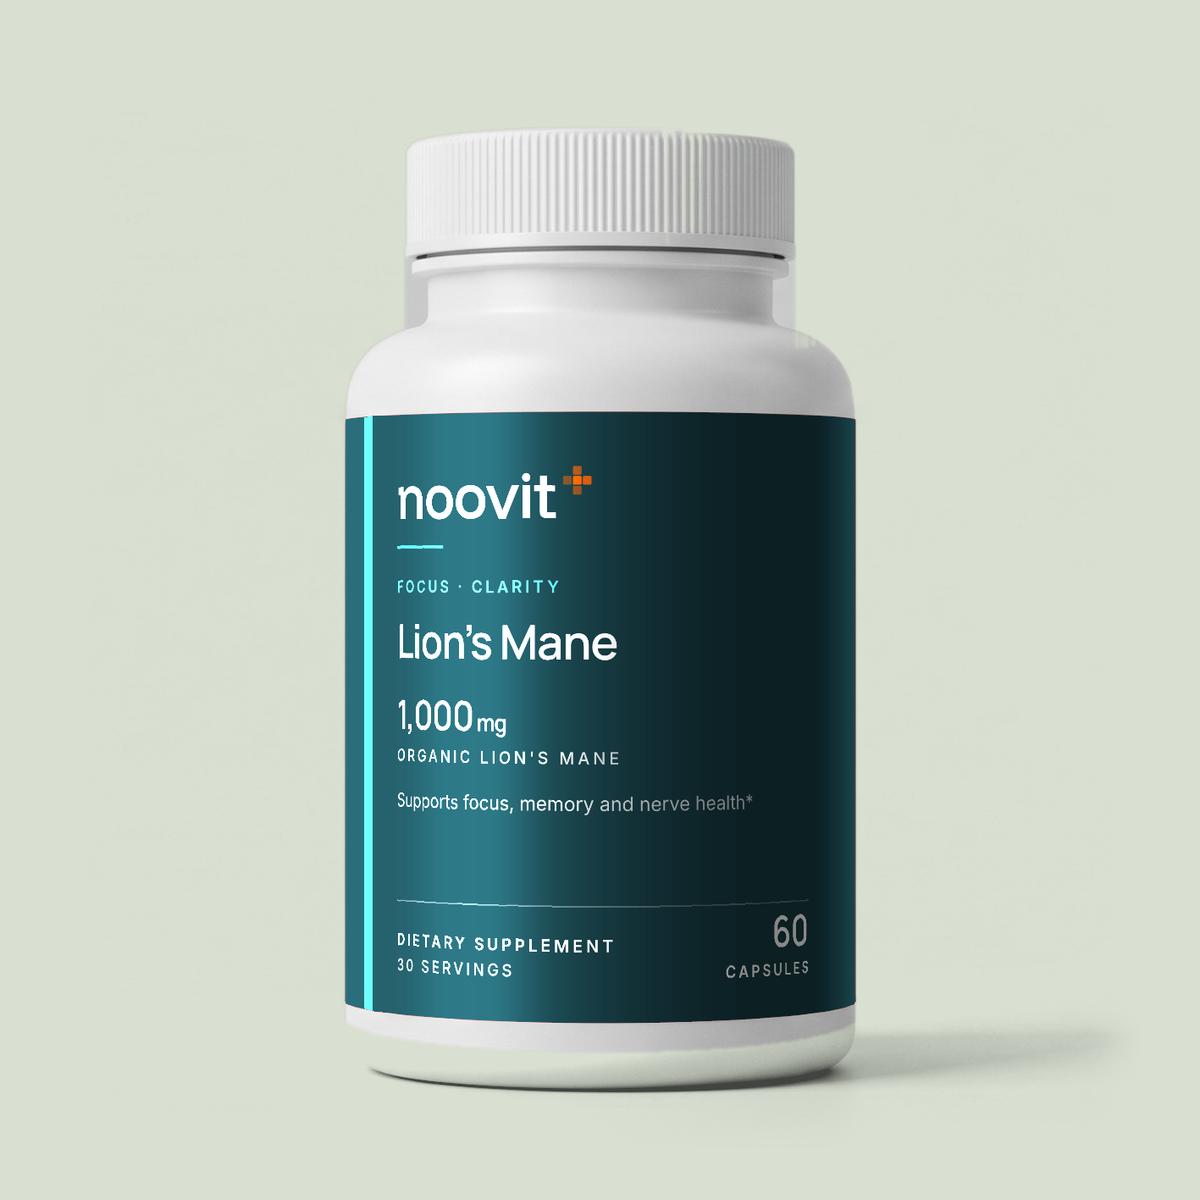
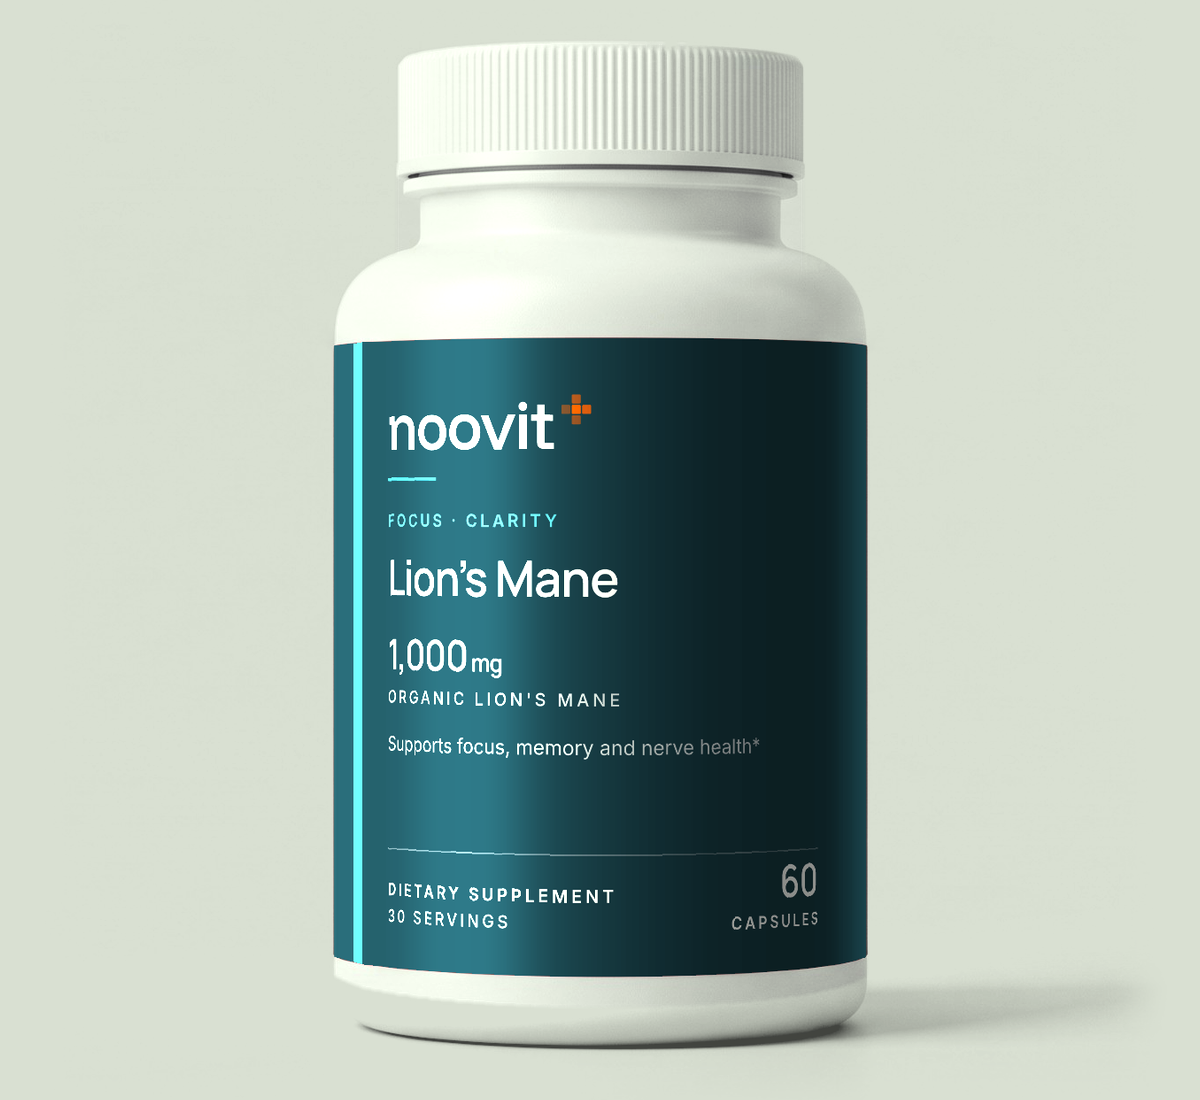
Warm bottle whites, sage hero, smaller H1, bigger Lion's Mane highlight, powders on the studio bottle, energetic sports photos, no reviews placeholder note, taller newsletter photo
Claude-Session: https://claude.ai/code/session_01AgHwmMXyw3TzvCrzNnVa8R

Changed region(s): [[0.2775, 0.0309, 0.8942, 0.9582]]

diff --git a/app/(store)/page.tsx b/app/(store)/page.tsx
@@ -67,11 +67,11 @@ export default async function HomePage() {
       <JsonLd data={{ '@context': 'https://schema.org', '@type': 'Organization', name: 'Noovit', legalName: LEGAL_NAME, url: SITE_URL, address: { '@type': 'PostalAddress', streetAddress: '30 N Gould St Ste R', addressLocality: 'Sheridan', addressRegion: 'WY', postalCode: '82801', addressCountry: 'US' } }} />
       {/* Hero: one full-bleed studio scene. The copy sits on the same grey backdrop as the bottles
           (public/images/lineup-hero.png, scripts/site-images.ts), so there is no card edge. */}
-      <section className="relative overflow-hidden bg-[var(--studio)]">
+      <section className="relative overflow-hidden bg-[var(--sage)]">
         <div className="container grid items-center gap-2 px-6 md:grid-cols-[1fr_1fr] md:gap-6">
           <div className="relative z-10 pt-14 md:py-24">
             {content.hero_badge && <p className="mb-5 text-xs font-semibold uppercase tracking-[0.22em] text-[var(--color-navy)]/70">{brandify(content.hero_badge)}</p>}
-            <h1 className="text-balance text-5xl leading-[1.02] text-[var(--color-navy)] md:text-6xl xl:text-7xl">{brandify(content.hero_headline)}</h1>
+            <h1 className="text-balance text-[2.55rem] leading-[1.04] text-[var(--color-navy)] md:text-[3.2rem] xl:text-[3.83rem]">{brandify(content.hero_headline)}</h1>
             {content.hero_subheadline && <p className="mt-6 max-w-lg text-lg text-[var(--color-ink)]/80 md:text-xl">{brandify(content.hero_subheadline)}</p>}
             <div className="mt-9 flex flex-wrap gap-3">
               <Link href={safeLink(content.hero_cta_link) || '/shop'} className="btn btn-primary">{content.hero_cta_label || 'Shop the range'}</Link>
@@ -84,7 +84,7 @@ export default async function HomePage() {
             </ul>
           </div>
           <Link href="/shop" aria-label="Shop the range" className="block">
-            <img src="/images/lineup-hero.png?v=2" alt="Noovit Magnesium Sleep+, Lion's Mane and Ashwagandha Calm+ bottles" className="w-full" fetchPriority="high" />
+            <img src="/images/lineup-hero.png?v=3" alt="Noovit Magnesium Sleep+, Lion's Mane and Ashwagandha Calm+ bottles" className="w-full" fetchPriority="high" />
           </Link>
         </div>
       </section>
@@ -141,8 +141,8 @@ export default async function HomePage() {
                     Shop {hl.name} · ${hl.basePrice} <ArrowRight className="h-4 w-4 transition-transform group-hover:translate-x-1" />
                   </span>
                 </div>
-                <div className="relative mt-auto min-h-[280px] flex-1 md:min-h-[340px]">
-                  <img src="/images/feature-lions-mane.png?v=2" alt={`${hl.name} bottle`} className="absolute inset-0 h-full w-full object-contain object-bottom transition-transform duration-700 group-hover:scale-[1.03]" loading="lazy" />
+                <div className="relative mt-auto min-h-[340px] flex-1 md:min-h-[420px]">
+                  <img src="/images/feature-lions-mane.png?v=3" alt={`${hl.name} bottle`} className="absolute inset-0 h-full w-full object-contain object-bottom transition-transform duration-700 group-hover:scale-[1.03]" loading="lazy" />
                 </div>
               </Link>
               <div className="flex flex-col justify-between rounded-[2rem] bg-[var(--color-navy)] p-8 text-white">
@@ -276,7 +276,7 @@ export default async function HomePage() {
       {/* Approach */}
       <section className="section">
         <div className="container grid items-center gap-12 px-6 md:grid-cols-2">
-          <img src={IMAGES.womanLift} srcSet={unsplashSrcSet(IMAGES.womanLift)} sizes="(min-width: 768px) 50vw, 100vw" alt="A woman lifting a barbell in a gym" className="aspect-[16/11] w-full rounded-3xl object-cover" loading="lazy" />
+          <img src={IMAGES.womanTrain} srcSet={unsplashSrcSet(IMAGES.womanTrain)} sizes="(min-width: 768px) 50vw, 100vw" alt="A woman training with a dumbbell in a gym" className="aspect-[16/11] w-full rounded-3xl object-cover" loading="lazy" />
           <div>
             <SectionHeading eyebrow="Our approach" title="Evidence-led, and honest about it" center={false} />
             <div className="space-y-6">

diff --git a/components/sections/Sections.tsx b/components/sections/Sections.tsx
@@ -9,7 +9,6 @@ import { IMAGES, SUBSCRIPTION_PERKS } from '@/data/content';
 import { Stars } from '@/components/ui/Stars';
 import { SocialLinks } from '@/components/layout/Footer';
 import { brandify } from '@/components/brand/Brand';
-import { PlaceholderNote } from '@/components/ui/Placeholder';
 import { trackSignup } from '@/lib/analytics';
 
 export function SectionHeading({ eyebrow, title, sub, center = true }: { eyebrow?: string; title: string; sub?: string; center?: boolean }) {
@@ -59,17 +58,14 @@ export function TrustSection() {
 }
 
 // Real, approved reviews only (see lib/reviews.ts); renders nothing until there are some.
+// eslint-disable-next-line @typescript-eslint/no-unused-vars
 export function ReviewsSection({ title = 'What customers say', reviews, placeholder = false }: { title?: string; reviews: Review[]; placeholder?: boolean }) {
   if (!reviews.length) return null;
   return (
     <section className="section">
       <div className="container px-6">
         <SectionHeading eyebrow="Reviews" title={title} />
-        {placeholder && (
-          <PlaceholderNote className="mb-6">
-            Example reviews showing where real ones will go. Collect them from customers (Admin → Reviews approves them); they replace these automatically.
-          </PlaceholderNote>
-        )}
+        {/* Owner (18 Nov): no orange note. Example reviews still disappear when Settings → Show placeholders is "off". */}
         <div className="no-scrollbar -mx-6 flex snap-x gap-5 overflow-x-auto px-6 pb-2">
           {reviews.map((r) => {
             return (
@@ -169,7 +165,7 @@ export function NewsletterSection() {
     <section className="section">
       <div className="container px-6">
         <div className="grid overflow-hidden rounded-3xl bg-[var(--color-navy)] text-white md:grid-cols-2">
-          <div className="p-10 md:p-14">
+          <div className="p-10 md:px-14 md:py-[66px]">
             <p className="mb-2 text-xs font-bold uppercase tracking-[0.2em] text-[var(--color-accent-light)]">Newsletter</p>
             <h2 className="text-3xl text-white md:text-4xl">10% off your first order</h2>
             <p className="mt-3 text-white/70">Sign up for nutrition tips, early access to launches, and member-only offers.</p>
@@ -210,7 +206,7 @@ export function NewsletterSection() {
           </div>
           {/* Absolutely positioned, so the photo fills the text's height instead of stretching the block (owner: shorter). */}
           <div className="relative hidden md:block">
-            <img src={IMAGES.sport} alt="A sprinter on a track in golden light" className="absolute inset-0 h-full w-full object-cover" loading="lazy" />
+            <img src={IMAGES.sport} alt="A sprinter on a track in golden light" className="absolute inset-0 h-full w-full object-cover object-[center_30%]" loading="lazy" />
           </div>
         </div>
       </div>

diff --git a/lib/labels/studio.ts b/lib/labels/studio.ts
@@ -197,6 +197,19 @@ export async function studioPhotoRaw(p: Product) {
   return { data: out, width: t.W, height: t.H, box: { x0: t.x0, x1: t.x1 } };
 }
 
+// The template was shot on cool grey, so its white plastic reads grey on a warm backdrop. Neutral, light pixels
+// (cap, shoulders, base) take the backdrop's light: scaled by backdrop / studio grey, weighted by how neutral and how
+// light they are, so the coloured label is untouched.
+const STUDIO_GREY = 202;
+function warm(r: number, g: number, b: number, bg: [number, number, number]): [number, number, number] {
+  const mx = Math.max(r, g, b), mn = Math.min(r, g, b);
+  const sat = mx ? (mx - mn) / mx : 0;
+  const lum = 0.299 * r + 0.587 * g + 0.114 * b;
+  const w = Math.max(0, 1 - sat * 4) * Math.min(1, Math.max(0, (lum - 110) / 60)) * 0.85;
+  const f = (c: number, k: number) => Math.min(255, c * (1 + (bg[k] / STUDIO_GREY - 1) * w));
+  return [f(r, 0), f(g, 1), f(b, 2)];
+}
+
 // The labelled photo placed on any backdrop colour: the bottle keeps its true colours (mask), and the backdrop takes
 // the photo's shadow and soft light as a brightness ratio against the empty studio, so it looks photographed there.
 export async function studioOnBackdrop(p: Product, bg: [number, number, number] = BACKDROP) {
@@ -208,7 +221,8 @@ export async function studioOnBackdrop(p: Product, bg: [number, number, number] 
     const lp = 0.299 * t.plate[k] + 0.587 * t.plate[k + 1] + 0.114 * t.plate[k + 2];
     const li = 0.299 * r.data[k] + 0.587 * r.data[k + 1] + 0.114 * r.data[k + 2];
     const shade = Math.max(0.3, Math.min(1, li / lp));
-    for (let c = 0; c < 3; c++) out[k + c] = Math.round(a * r.data[k + c] + (1 - a) * bg[c] * shade);
+    const wm = warm(r.data[k], r.data[k + 1], r.data[k + 2], bg);
+    for (let c = 0; c < 3; c++) out[k + c] = Math.round(a * wm[c] + (1 - a) * bg[c] * shade);
   }
   return { ...r, data: out };
 }
@@ -274,7 +288,8 @@ export async function studioGroupPng(products: Product[], width: number, height:
         const e = Math.min(xx, opts.size - 1 - xx, yy, opts.size - 1 - yy) / (opts.size * 0.06);
         const w = e >= 1 ? 1 : e * e * (3 - 2 * e);
         const shade = 1 - (1 - sh.data[m * sh.ch] / 255) * w;
-        for (let c = 0; c < 3; c++) canvas[di + c] = a * px.data[m * px.ch + c] + (1 - a) * canvas[di + c] * shade;
+        const wm = warm(px.data[m * px.ch], px.data[m * px.ch + 1], px.data[m * px.ch + 2], opts.bg);
+        for (let c = 0; c < 3; c++) canvas[di + c] = a * wm[c] + (1 - a) * canvas[di + c] * shade;
       }
     }
   }

diff --git a/data/content.ts b/data/content.ts
@@ -6,11 +6,11 @@ export const IMAGES = {
   // Sports lifestyle (Unsplash License, free): sprinter by Jorge Alberto Vega Barrera; runner by Sherise Van Dyk.
   sport: 'https://images.unsplash.com/photo-1744060204728-f68e434a3edf?w=1200&q=80&fit=crop',
   run: 'https://images.unsplash.com/photo-1560073742-bc295f81c3c0?w=1200&q=80&fit=crop',
-  // More sports photos, Unsplash License: Cristian Londono (barbell), Land O'Lakes Inc. (gym, track), Ryan Fleischer (winter run).
-  womanLift: 'https://images.unsplash.com/photo-1639660299469-9e9279364c97?w=1200&q=80&fit=crop',
-  womanGym: 'https://images.unsplash.com/photo-1761839258420-5c3e2f2e2a74?w=1200&q=80&fit=crop',
+  // More sports photos, Unsplash License: Alora Griffiths (woman training), Ryan Fleischer (winter run), Sage Friedman (trail run).
+  // Owner (18 Nov): fit, energetic people only, never tired, resting or unflattering shots.
+  womanTrain: 'https://images.unsplash.com/photo-1532384748853-8f54a8f476e2?w=1200&q=80&fit=crop',
   womanRun: 'https://images.unsplash.com/photo-1765250251997-daf44e3c0268?w=1200&q=80&fit=crop',
-  track: 'https://images.unsplash.com/photo-1761839257789-20147513121a?w=1200&q=80&fit=crop',
+  trailRun: 'https://images.unsplash.com/photo-1522040942177-269680274214?w=1200&q=80&fit=crop',
   hero: 'https://images.unsplash.com/photo-1552196563-55cd4e45efb3?w=1920&q=80&fit=crop',
   approach: 'https://images.unsplash.com/photo-1540420773420-3366772f4999?w=1200&q=80&fit=crop',
   nutrition: 'https://images.unsplash.com/photo-1490645935967-10de6ba17061?w=800&q=80&fit=crop',
@@ -19,11 +19,11 @@ export const IMAGES = {
   results: 'https://images.unsplash.com/photo-1517836357463-d25dfeac3438?w=800&q=80&fit=crop',
   // Sports people, women and men (all Unsplash License, see above).
   community: [
-    'https://images.unsplash.com/photo-1639660299469-9e9279364c97?w=600&h=600&q=80&fit=crop',
+    'https://images.unsplash.com/photo-1532384748853-8f54a8f476e2?w=600&h=600&q=80&fit=crop',
     'https://images.unsplash.com/photo-1560073742-bc295f81c3c0?w=600&h=600&q=80&fit=crop',
     'https://images.unsplash.com/photo-1765250251997-daf44e3c0268?w=600&h=600&q=80&fit=crop',
     'https://images.unsplash.com/photo-1744060204728-f68e434a3edf?w=600&h=600&q=80&fit=crop',
-    'https://images.unsplash.com/photo-1761839258420-5c3e2f2e2a74?w=600&h=600&q=80&fit=crop',
+    'https://images.unsplash.com/photo-1522040942177-269680274214?w=600&h=600&q=80&fit=crop',
   ],
 };
 

diff --git a/scripts/site-images.ts b/scripts/site-images.ts
@@ -15,12 +15,12 @@ const P = (s: string) => SEED_PRODUCTS.find((p) => p.slug === s)!;
   const five = await studioGroupPng(['magnesium-complex', 'ashwagandha', 'lions-mane', 'coq10', 'turmeric-complex'].map(P), 1600, 1200, { size: 560, step: 300, y: 330, bg });
   writeFileSync('public/images/lineup-5.png', five);
   // Hero: three bottles, wide, for the full-bleed homepage hero (text sits on the same backdrop to the left).
-  const hero = await studioGroupPng(['magnesium-complex', 'lions-mane', 'ashwagandha'].map(P), 1500, 1200, { size: 860, step: 470, y: 230, bg });
+  const hero = await studioGroupPng(['magnesium-complex', 'lions-mane', 'ashwagandha'].map(P), 1500, 1200, { size: 860, step: 470, y: 230, bg: [...SAGE] as [number, number, number] }); // hero on sage (owner, 18 Nov)
   writeFileSync('public/images/lineup-hero.png', hero);
   // Featured products on a soft tint of their own label colour (FourFive-style), for the homepage feature cards.
   // Cards alternate cream and sage (owner, 17 Nov).
   for (const [slug, t] of [['lions-mane', SAGE], ['magnesium-complex', BACKDROP]] as const) {
-    writeFileSync(`public/images/feature-${slug}.png`, await studioGroupPng([P(slug)], 1200, 1200, { size: 1100, step: 0, y: 60, bg: [...t] as [number, number, number] }));
+    writeFileSync(`public/images/feature-${slug}.png`, await studioGroupPng([P(slug)], 1200, 1100, { size: 1150, step: 0, y: -30, bg: [...t] as [number, number, number] })); // bottle fills the frame
     console.log('feature', slug, '#' + t.map((v) => v.toString(16).padStart(2, '0')).join(''));
   }
   console.log('backdrop', '#' + bg.map((v) => v.toString(16).padStart(2, '0')).join(''));

diff --git a/lib/labels/svg.ts b/lib/labels/svg.ts
@@ -15,7 +15,7 @@ import { LEGAL_NAME } from '@/lib/site';
 export type FontMode = 'web' | 'print';
 
 // Bump when the photo mockup (lib/labels/photo.ts) changes, so cached product image URLs refresh.
-export const MOCKUP_VERSION = 'studio-v6'; // v6 (17 Nov): cream backdrop // studio-v1 (16 Nov): photoreal studio bottle (lib/labels/studio.ts); was photo-v14 // v12 (14 Nov): elegant dark label; v13: studio lighting; v14: label edges curve round the bottle
+export const MOCKUP_VERSION = 'studio-v7'; // v6 (17 Nov): cream backdrop // studio-v1 (16 Nov): photoreal studio bottle (lib/labels/studio.ts); was photo-v14 // v12 (14 Nov): elegant dark label; v13: studio lighting; v14: label edges curve round the bottle
 
 const NAVY = '#14213d';
 const INK = '#4b5563';

diff --git a/lib/labels/photo.ts b/lib/labels/photo.ts
@@ -26,7 +26,8 @@ const BOW_TOP = 9;
 const BOW_BOTTOM = 20;
 
 export function usesPhoto(p: Product) {
-  return !p.bundleComponents?.length && (p.form === 'capsules' || p.form === 'softgels');
+  // Powders too (owner, 18 Nov): the drawn tub looked fake, so every single product uses the studio bottle photo.
+  return !p.bundleComponents?.length && (p.form === 'capsules' || p.form === 'softgels' || p.form === 'powder');
 }
 
 const r = (v: number) => Math.round(v * 100) / 100;

diff --git a/docs/PROGRESS.md b/docs/PROGRESS.md
@@ -203,3 +203,4 @@ Status: **Have** · **Phase N** = planned (Phases 1–2 done Oct 2026) · **Tool
 - [x] 17 Nov (37): owner ran the CoQ10 SQL and the best-seller reset; Lion's Mane and CoQ10 are active. Seed `bestSeller` flags set to false (no badge before real sales).
 - [x] 17 Nov (38): website tidy-up for launch: particle/cell/helix art removed everywhere (homepage, quiz, guides, About); full-bleed studio hero (`public/images/lineup-hero.png`), goal tiles with studio photos, line-up images (`scripts/site-images.ts`, `--studio` backdrop); Thorne-inspired homepage: duplicate trust row and approach block removed, quiz as a lifestyle split (runner photo), newsletter with a sprinter photo (Unsplash License); pets teaser last; advisors two spots, no placeholder note; Best Sellers section + nav and Pets nav hidden until real; top nav in caps; drawn tubs/bundles on the studio grey; quiz explains the 10%-off welcome code and tags subscribers with their goal; blog posts get an "In this article" table of contents (H2 anchors); creatine data SQL (`supabase/manual/2026-11-17-creatine-data.sql`).
 - [x] 17 Nov (39): cream/sage backdrops (mask compositing), homepage reordered per owner (4 goal tiles, subscription, Lion's Mane highlight masonry, pets → FAQ → shorter newsletter last), sports photos incl. women. Owner ran the creatine SQL and redeployed.
+- [x] 18 Nov (40): bottle whites warmed to the backdrop (`warm()` in studio.ts), hero on sage, H1 −15%, bigger Lion's Mane highlight, creatine and Mushroom Clarity+ shown on the studio bottle (owner's call, tub render pending), reviews placeholder note removed, newsletter photo taller, photos swapped for fit/energetic athletes (owner: no tired or unflattering shots).
